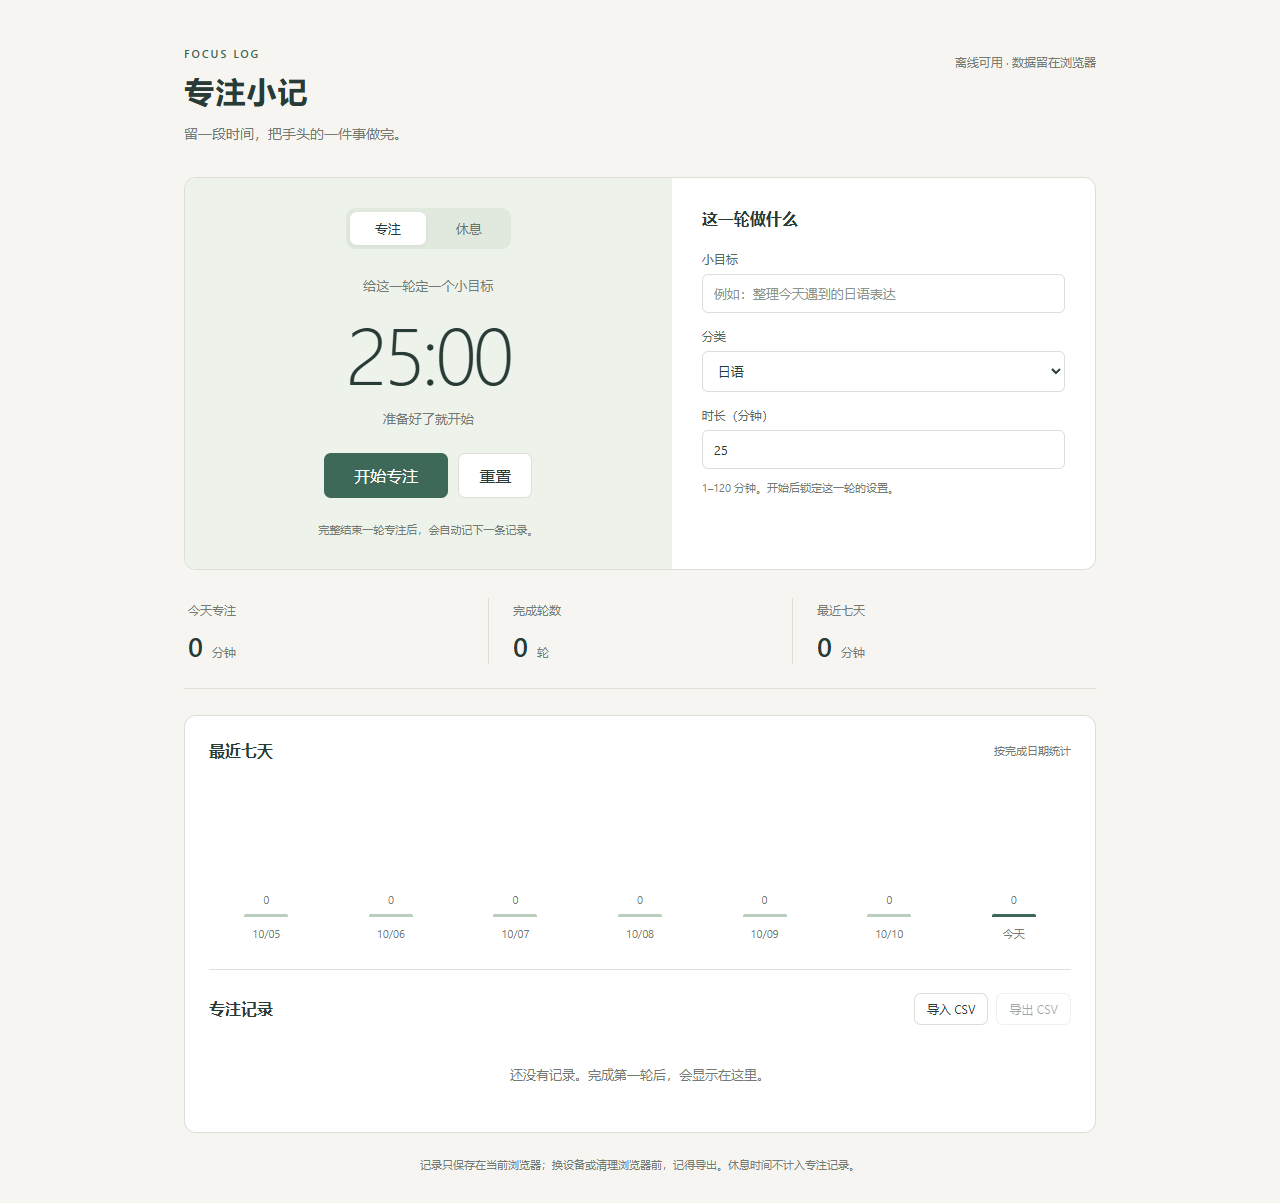
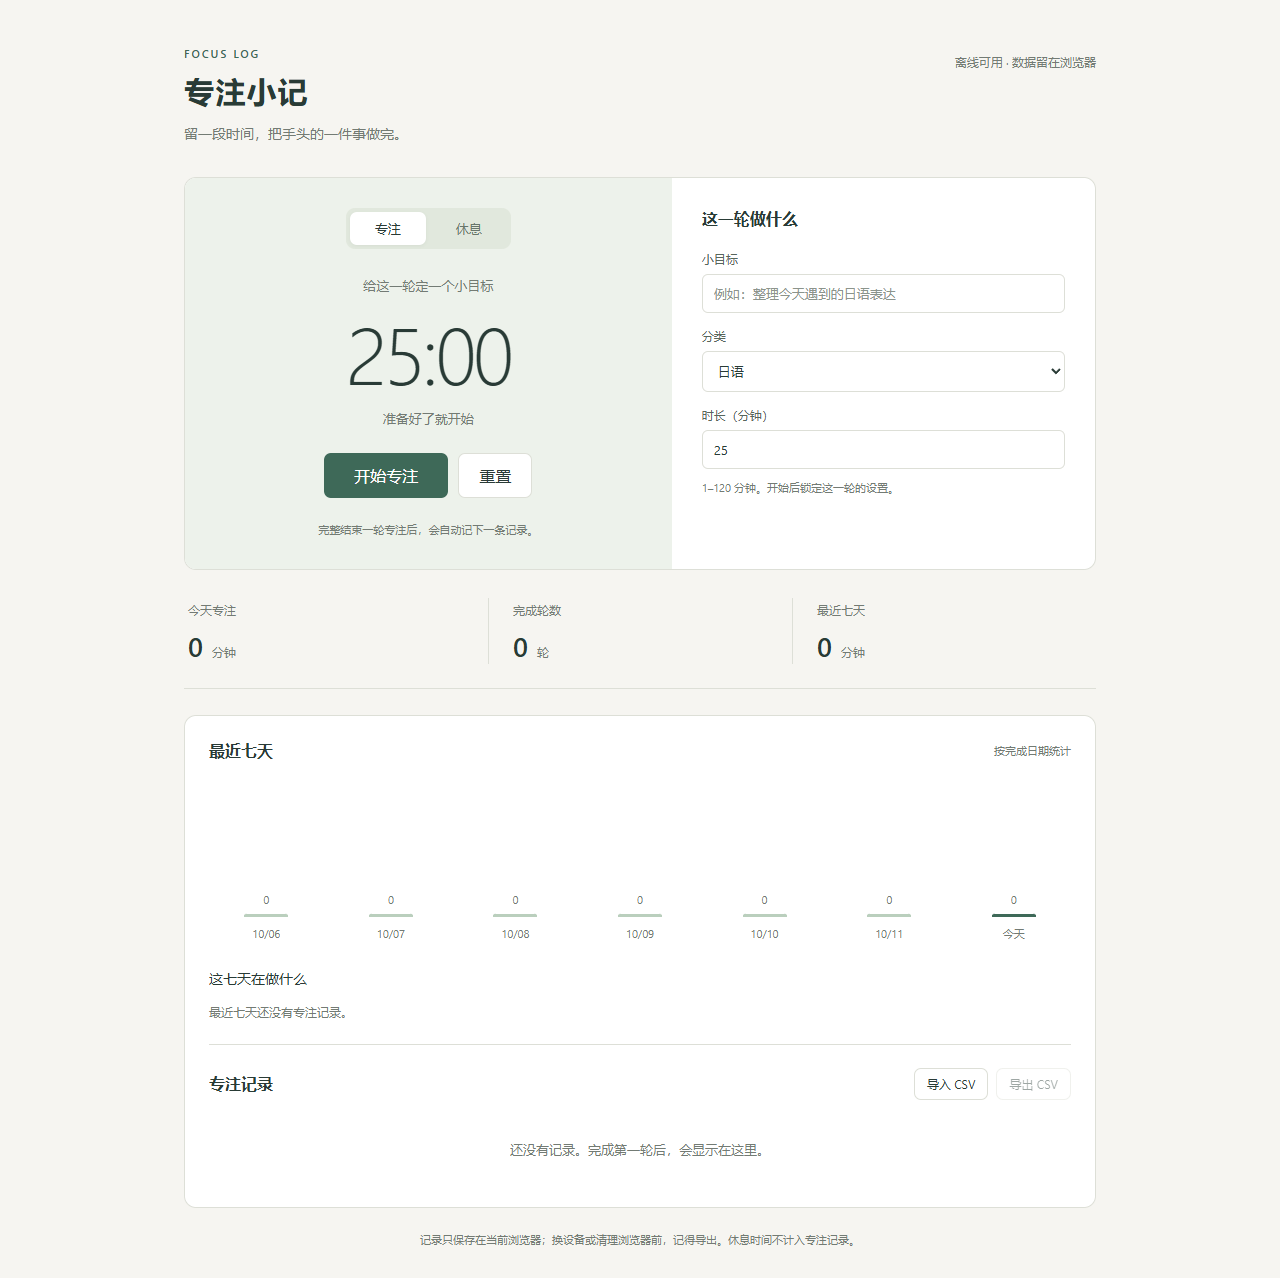
Show weekly focus time and session counts by category

diff --git a/core.js b/core.js
@@ -78,17 +78,37 @@
     return `${date.getFullYear()}-${pad(date.getMonth() + 1)}-${pad(date.getDate())}`;
   }
 
-  function weeklyMinutes(sessions, today) {
-    const days = Array.from({ length: 7 }, (_, index) => {
+  function weekDateKeys(today) {
+    return Array.from({ length: 7 }, (_, index) => {
       const date = new Date(today.getFullYear(), today.getMonth(), today.getDate());
       date.setDate(date.getDate() - 6 + index);
-      return { date: dateKey(date), minutes: 0 };
+      return dateKey(date);
     });
+  }
+
+  function weeklyMinutes(sessions, today) {
+    const days = weekDateKeys(today).map((date) => ({ date, minutes: 0 }));
     for (const session of sessions) {
       const day = days.find((item) => item.date === dateKey(new Date(session.finishedAt)));
       if (day) day.minutes += session.minutes;
     }
     return days;
+  }
+
+  function weeklyCategoryMinutes(sessions, today) {
+    const dates = new Set(weekDateKeys(today));
+    const categories = new Map();
+    for (const session of sessions) {
+      if (!dates.has(dateKey(new Date(session.finishedAt)))) continue;
+      if (!categories.has(session.category)) {
+        categories.set(session.category, { category: session.category, minutes: 0, sessions: 0 });
+      }
+      const category = categories.get(session.category);
+      category.minutes += session.minutes;
+      category.sessions++;
+    }
+    return Array.from(categories.values()).sort((left, right) =>
+      right.minutes - left.minutes || left.category.localeCompare(right.category, "zh-CN"));
   }
 
   function needsCsvEscape(value) {
@@ -246,7 +266,7 @@
       Number.isFinite(Date.parse(session.finishedAt));
   }
 
-  const api = { Timer, dateKey, weeklyMinutes, toCsv, fromCsv, mergeSessions, validSession, validActiveSession };
+  const api = { Timer, dateKey, weeklyMinutes, weeklyCategoryMinutes, toCsv, fromCsv, mergeSessions, validSession, validActiveSession };
   if (typeof module !== "undefined" && module.exports) module.exports = api;
   else root.FocusCore = api;
 })(typeof globalThis !== "undefined" ? globalThis : this);

diff --git a/app.js b/app.js
@@ -1,6 +1,6 @@
 "use strict";
 
-const { Timer, dateKey, weeklyMinutes, toCsv, fromCsv, mergeSessions, validSession, validActiveSession } = FocusCore;
+const { Timer, dateKey, weeklyMinutes, weeklyCategoryMinutes, toCsv, fromCsv, mergeSessions, validSession, validActiveSession } = FocusCore;
 const byId = (id) => document.getElementById(id);
 const storageKey = "focus-log.sessions.v1";
 const activeStorageKey = "focus-log.active.v1";
@@ -97,6 +97,35 @@ function setLocked(locked) {
   }
 }
 
+function drawCategories(now) {
+  const categories = weeklyCategoryMinutes(sessions, now);
+  const total = categories.reduce((sum, category) => sum + category.minutes, 0);
+  const list = byId("category-list");
+  list.replaceChildren();
+  byId("category-empty").hidden = categories.length > 0;
+  for (const category of categories) {
+    const item = document.createElement("li");
+    const heading = document.createElement("div");
+    heading.className = "category-row";
+    const name = document.createElement("span");
+    name.className = "category-name";
+    name.textContent = category.category;
+    const value = document.createElement("span");
+    value.className = "category-value";
+    value.textContent = `${category.minutes} 分钟 · ${category.sessions} 轮`;
+    heading.append(name, value);
+    const track = document.createElement("div");
+    track.className = "category-track";
+    track.setAttribute("aria-hidden", "true");
+    const bar = document.createElement("div");
+    bar.className = "category-bar";
+    bar.style.width = `${category.minutes / total * 100}%`;
+    track.append(bar);
+    item.append(heading, track);
+    list.append(item);
+  }
+}
+
 function drawRecords() {
   const now = new Date();
   const today = dateKey(now);
@@ -129,6 +158,7 @@ function drawRecords() {
     column.append(value, bar, label);
     chart.append(column);
   }
+  drawCategories(now);
 
   const rows = byId("records");
   rows.replaceChildren();

diff --git a/style.css b/style.css
@@ -50,6 +50,15 @@ input::placeholder { color: #8c948c; }
 .chart-bar { width: min(44px, 70%); min-height: 3px; background: #bacfbd; border-radius: 4px 4px 0 0; }
 .chart-bar.today { background: var(--green); }
 .chart-label { font-size: 11px; color: var(--muted); margin-top: 9px; }
+.category-summary { margin-bottom: 24px; }
+.category-summary h3 { margin: 0 0 16px; font-size: 14px; font-weight: 500; }
+.category-empty { font-size: 12px; color: var(--muted); margin: 0; }
+.category-list { list-style: none; padding: 0; margin: 0; display: grid; gap: 14px; }
+.category-row { display: flex; flex-wrap: wrap; align-items: baseline; justify-content: space-between; gap: 4px 12px; font-size: 12px; margin-bottom: 6px; }
+.category-name { min-width: 0; overflow-wrap: anywhere; }
+.category-value { color: var(--muted); white-space: nowrap; }
+.category-track { background: #edf2eb; height: 5px; border-radius: 3px; overflow: hidden; }
+.category-bar { background: #bacfbd; height: 100%; border-radius: 3px; }
 .records-heading { padding-top: 23px; border-top: 1px solid var(--line); }
 .records-heading button { padding: 7px 12px; font-size: 12px; }
 .records-actions { display: flex; gap: 8px; justify-content: flex-end; flex-wrap: wrap; }

diff --git a/index.html b/index.html
@@ -66,6 +66,11 @@
         <h2>最近七天</h2><span class="muted">按完成日期统计</span>
       </div>
       <div id="week-chart" class="week-chart" role="list" aria-label="最近七天每日专注分钟数"></div>
+      <section class="category-summary" aria-labelledby="category-heading">
+        <h3 id="category-heading">这七天在做什么</h3>
+        <p id="category-empty" class="category-empty">最近七天还没有专注记录。</p>
+        <ul id="category-list" class="category-list"></ul>
+      </section>
       <div class="section-heading records-heading">
         <h2>专注记录</h2>
         <div class="records-actions">

diff --git a/README.md b/README.md
@@ -26,7 +26,16 @@ python -m http.server 8000
 - 刷新或重新打开页面后恢复计时，暂停状态也会保留。 / Restore an active or paused timer after refreshing or reopening the page.
 - 记录目标、分类、开始时间、完成时间和专注分钟数。 / Task, category, start time, finish time, and focus minutes.
 - 今日汇总与最近七天的简单柱状图。 / Today's totals and a simple chart for the last seven days.
+- 最近七天按分类汇总分钟数和完成轮数。 / Minutes and completed sessions by category for the last seven days.
 - 导出 CSV，也可以导入备份并合并记录，重复记录会跳过。 / Export CSV backups and import them to merge records, skipping duplicates.
+
+“这七天在做什么”与柱状图都包含今天及前六个本地日期，按完成时间归类。分类按分钟数从多到少排列，横条表示该分类占七天总时长的比例；导入文件里的其他分类也会显示。跨午夜的一轮全部计入完成当天。
+
+The category summary and daily chart both cover today and the previous six local dates, using completion time. Categories are sorted by minutes, and each bar shows its share of the seven-day total. Categories from imported backups are included. A session crossing midnight counts entirely on its completion date.
+
+下图使用合成记录展示分类汇总，并非实际学习数据。 / The example below uses synthetic records, not actual study data.
+
+![分类汇总示例 / Category summary example](docs/category-example.png)
 
 ## 备份与恢复 / Back up and restore
 
@@ -58,9 +67,13 @@ Background tabs or device sleep may delay the completion message. Use one timer 
 
 ## 代码怎么分 / Code layout
 
-`core.js` 放计时和 CSV 相关的计算，`app.js` 处理按钮、记录和图表，`style.css` 负责布局。计时保存一个截止时间，每次用当前时间计算剩余时长，避免把定时回调次数当成真实经过的时间。暂停时保存剩余时长，继续时重新计算截止时间。
+`core.js` 放计时、统计和 CSV 相关的计算，`app.js` 处理按钮、记录和图表，`style.css` 负责布局。计时保存一个截止时间，每次用当前时间计算剩余时长，避免把定时回调次数当成真实经过的时间。暂停时保存剩余时长，继续时重新计算截止时间。
 
-`core.js` contains timer and CSV logic, `app.js` handles controls, storage, and the chart, and `style.css` defines the layout. The timer compares the current time with a deadline instead of counting interval callbacks. Pausing stores the remaining duration; resuming creates a new deadline.
+`core.js` contains timer, statistics and CSV logic, `app.js` handles controls, storage, and the chart, and `style.css` defines the layout. The timer compares the current time with a deadline instead of counting interval callbacks. Pausing stores the remaining duration; resuming creates a new deadline.
+
+每日图表和分类汇总共用七天的日期列表。分类汇总用 `Map` 累加分钟数与轮数，再排序显示，不会改变原始记录。
+
+The daily chart and category summary share the same seven-date list. A `Map` accumulates minutes and session counts for each category, then the results are sorted for display without changing the original records.
 
 恢复时读取保存的计时状态，不会重新开始一整轮。每轮有一个固定 ID，补记结束记录时先检查是否已有同一个 ID，避免刷新后重复计数。
 
@@ -78,6 +91,6 @@ With Node.js installed, run the core checks:
 node --test
 ```
 
-想试着改代码，可以先在 `index.html` 里给分类加一项，比如“阅读”。完成一轮短计时，导出 CSV，再把同一份备份导入两次：新分类应保留，记录数应不变。
+想试着改代码，可以先在 `index.html` 里给分类加一项，比如“阅读”。完成一轮短计时，检查分类汇总；再导出 CSV，把同一份备份导入两次：新分类应保留，记录数与分类分钟数应不变。
 
-For a small first change, add a category such as “Reading” to `index.html`. Complete a short session, export it, and import the same backup twice: the new category should remain, and the record count should not change.
+For a small first change, add a category such as “Reading” to `index.html`. Complete a short session and check the category summary. Export it and import the same backup twice: the category should remain, and neither the record count nor its total minutes should change.
